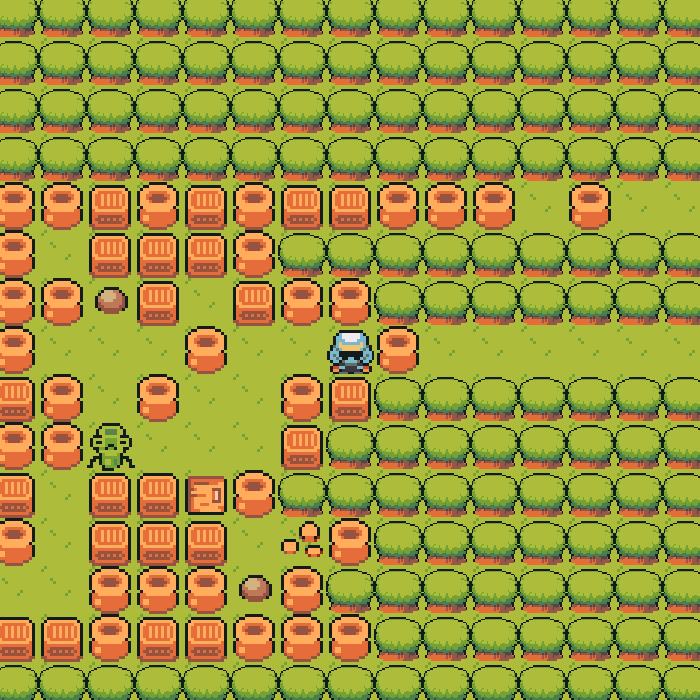
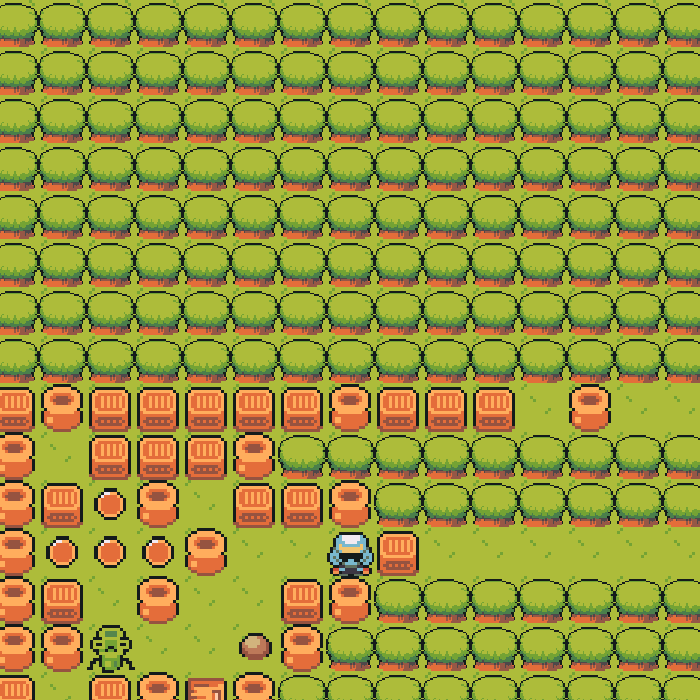
camera

diff --git a/camera.py b/camera.py
@@ -18,3 +18,4 @@ class Camera:
 
     def move(self, target):
         self.dx = -(target.rect.x + target.rect.w // 2 - self.game.width // 2)
+        self.dy = -(target.rect.y + target.rect.h // 2 - self.game.height // 2)
